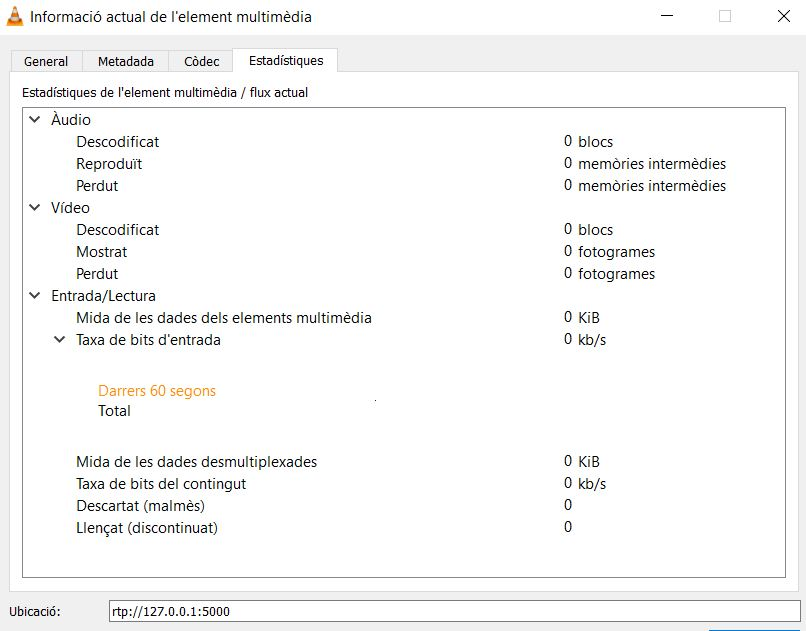
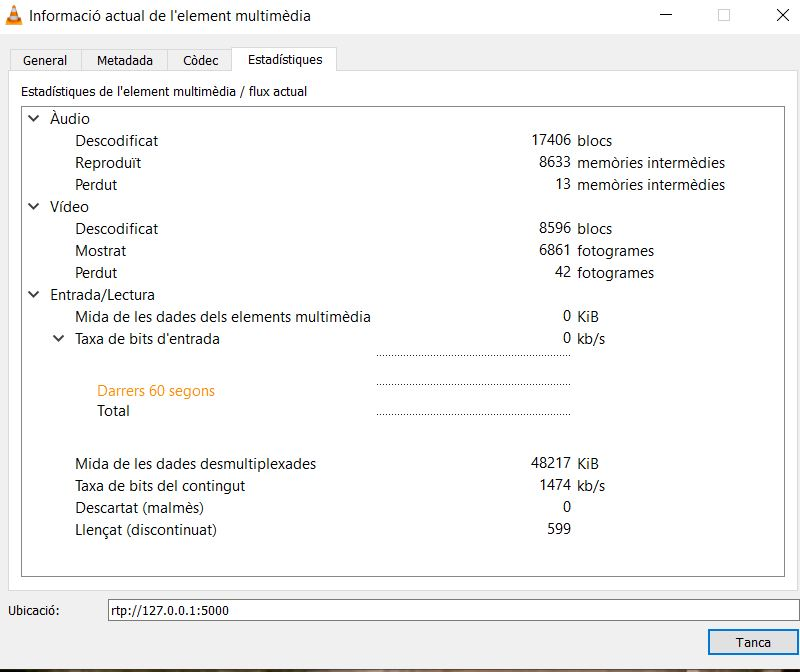
2.5

diff --git a/index.html b/index.html
@@ -46,6 +46,16 @@
       <!-- ./ Hero -->    
     <main class="container">
       <section>
+        <article>
+          <p>
+            La realització d'aquesta pràctica s'ha elaborat en format web. El codi font es pot consultar al següent repositori de github:
+            <a href="https://github.com/lisernm/ppd">https://github.com/lisernm/ppd</a>
+          </p>
+          
+          <p>Els clips de video es poden descarregar al següent enllaç de google drive: 
+            <a href="https://drive.google.com/drive/folders/1rk_Rp2FBxOWJQoKd_c0P9TAU4cLCFGVM?usp=sharing">https://drive.google.com/drive/folders/1rk_Rp2FBxOWJQoKd_c0P9TAU4cLCFGVM?usp=sharing</a>
+          </p>
+        </article>        
         <h3>Exercici 1 - Clip de vídeo incrustat en HTML 5</h3>
         <article>
           <p class="enunciat">
@@ -262,6 +272,7 @@
             <figcaption>
               Detalls emisor - tasa de bits de contingut clip 2
             </figcaption>
+            <p>Taxa de bits de contingut (s'ha pres la captura a un valor mitjà) 5560 kb/s</p> 
           </figure>                                       
         </article>
         <article>
@@ -281,8 +292,28 @@
             <figcaption>
               Detalls receptor - tasa de bits de contingut clip 2
             </figcaption>
-          </figure>                                       
-        </article>                 
+          </figure>
+          <p>Taxa de bits de contingut 1474 kb/s</p>                                     
+        </article>
+        <article>
+          <p class="enunciat">
+            <span class="num_tasca" id="2.4">Tasca 2.4 </span>si realitzes una pausa en el VLC emissor, quants segons triga en pausar-se el vídeo al receptor? Per què? Torna-ho a posar en reproducció.
+          </p> 
+          <p>El vídeo al receptor es pausa en aproximadament 1 segon. Tot i que estem executant l'emisor i receptor dins del mateix dispositiu existeix una latència derivada del procès de transformació que du a terme l'emisor.</p>                                     
+        </article>
+        <article>
+          <p class="enunciat">
+            <span class="num_tasca" id="2.5">Tasca 2.5 </span>Calcula aproximadament la compressió que el VLC d'emissió està realitzant al transcodificar el fitxer emmagatzemat a stream. 
+            Realitza una captura de pantalla de l'escriptori amb els dos VLC en marxa i les seves finestres amb les estadístiques de cadascun obertes, i insereix la captura en el document en el qual escrius les respostes d'aquesta pràctica.
+          </p> 
+          <p>Factor de compressió = tasa bits emisor / tasa bits receptor  = 5560 kbps / 1474 kbps = 3,77 </p>
+          <figure>
+            <img src="img/2_5.JPG" alt="Emisor i receptor amb estadístiques" />
+            <figcaption>
+              Emisor i receptor amb estadístiques
+            </figcaption>
+          </figure>          
+        </article>                                
       </section>
           
 
